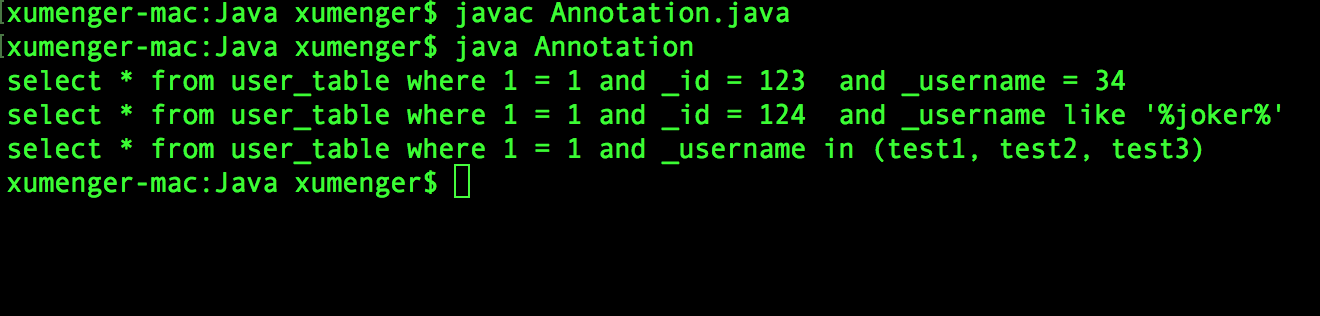
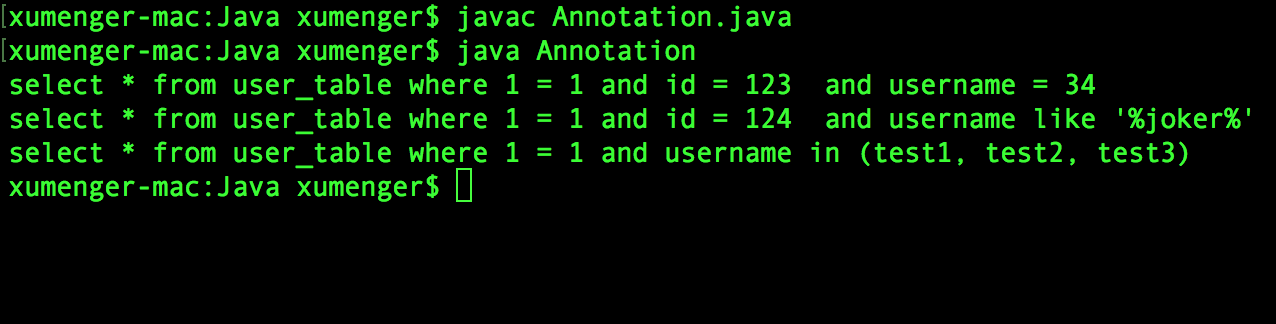
python java

Changed region(s): [[0.0, 0.1994, 0.9781, 0.6266], [0.0, 0.0, 0.6418, 0.1994]]

diff --git a/_posts/2018-10-14-java-annotation-20181014.md b/_posts/2018-10-14-java-annotation-20181014.md
@@ -92,10 +92,10 @@ class UserDto {
     @Deprecated
     private String tt;
 
-    @Column(value = "_id", type = "integer")
+    @Column(value = "id", type = "integer")
     private String id;
 
-    @Column(value = "_username", type = "string")
+    @Column(value = "username", type = "string")
     private String name;
 
     public UserDto(String id, String name) {
